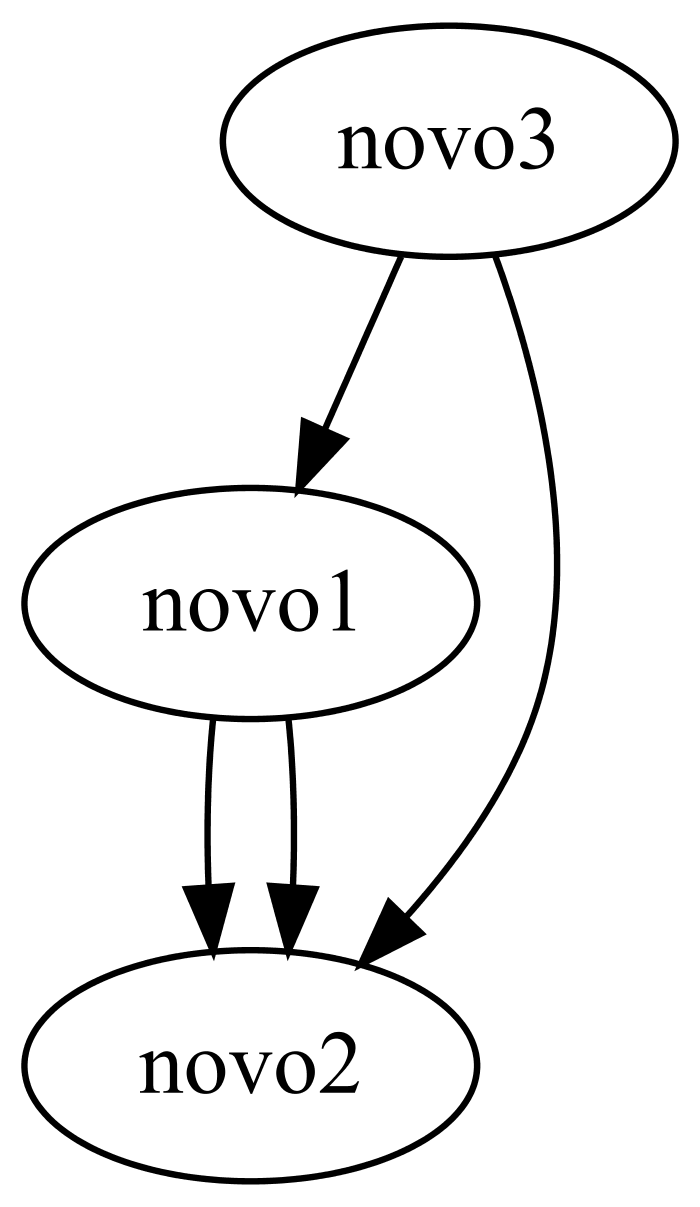
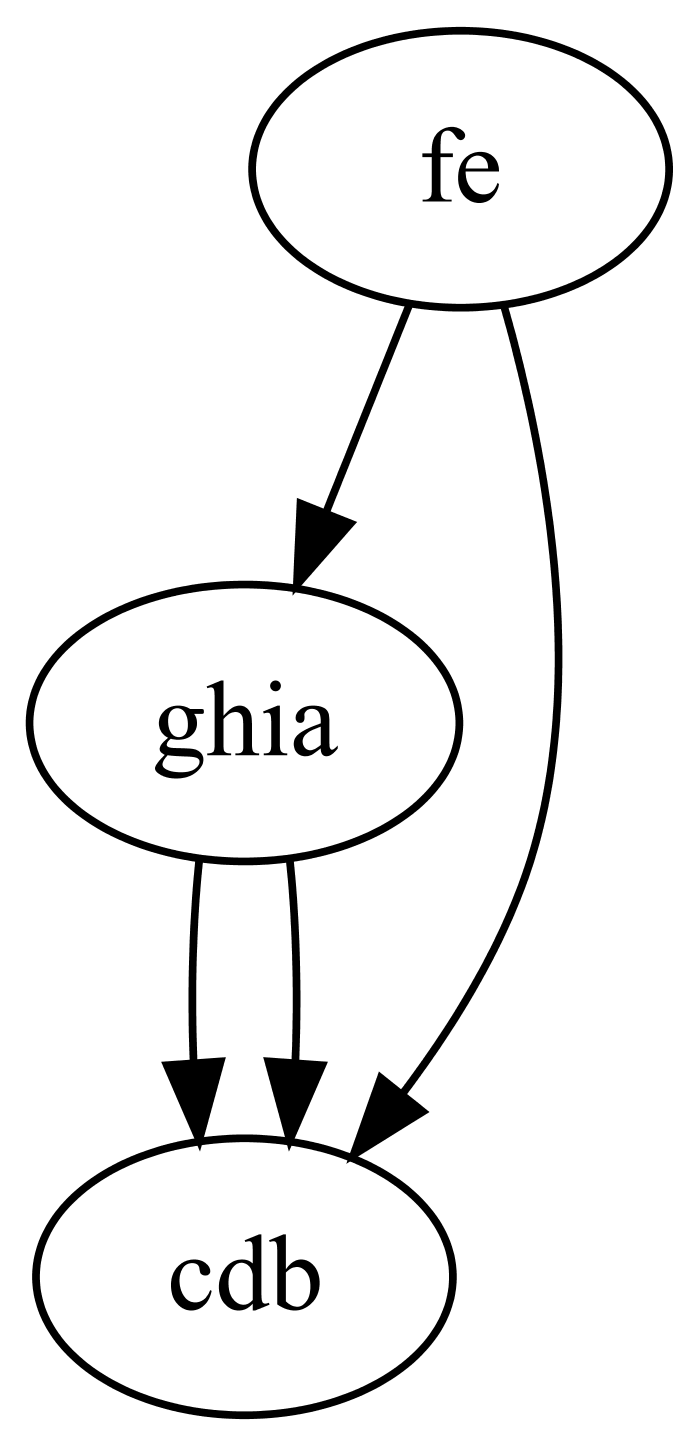
Malgrange (Semana 09)
Função recriaVertices agora tem controle   para remoção de arestas com um único vértice.
Opcional: Criar uma função para remover arestas duplicadas (mesmos vertices).
Malgrange finalizado.

diff --git a/src/main/java/br/com/davesmartins/grafo_api/TesteMenu.java b/src/main/java/br/com/davesmartins/grafo_api/TesteMenu.java
@@ -8,7 +8,7 @@ public class TesteMenu {
 
     public static void main(String[] args) throws IOException {
         Grafo grafo = new Grafo();
-        GrafoOrientado grafo_orientado = new GrafoOrientado();
+        GrafoOrientado grafoOrientado = new GrafoOrientado();
 
         Scanner leitor = new Scanner(System.in);
 
@@ -103,7 +103,7 @@ public class TesteMenu {
                                             System.out.println("Vertice: ");
                                             v1 = leitor.next();
                                             vert1 = new Vertice(v1);
-                                            grafo_orientado.addVertice(vert1);
+                                            grafoOrientado.addVertice(vert1);
                                             break;
                                         case 2:
                                             System.out.println("Vertice de origem: ");
@@ -113,7 +113,7 @@ public class TesteMenu {
                                             System.out.println("Vertice de destino: ");
                                             v2 = leitor.next();
                                             vert2 = new Vertice(v2);
-                                            grafo_orientado.inserirAresta(v1, v2);
+                                            grafoOrientado.inserirAresta(v1, v2);
                                             break;
                                         case 3:
                                             System.out.println("Vertice 1: ");
@@ -126,7 +126,7 @@ public class TesteMenu {
 
                                             System.out.println("Insira o valor da Aresta: ");
                                             valor = leitor.nextDouble();
-                                            grafo_orientado.inserirArestaValorada(v1, v2, valor);
+                                            grafoOrientado.inserirArestaValorada(v1, v2, valor);
                                             break;
                                     }
 
@@ -199,7 +199,7 @@ public class TesteMenu {
 
                 case 3:
                     int op3 = 0;
-                    while (op != 14) {
+                    while (op != 15) {
                         System.out.println("---------------Matriz---------------");
                         System.out.println("1 - Mostrar Ordem");
                         System.out.println("2 - Mostrar Grau");
@@ -210,11 +210,12 @@ public class TesteMenu {
                         System.out.println("7 - Grafo Completo?");
                         System.out.println("8 - Mostrar Fecho Transitivo Direto");
                         System.out.println("9 - Mostrar Fecho Transitivo Inverso");
-                        System.out.println("10 -Mostrar conexidade");
-                        System.out.println("11 -Gerar menor caminho (orientado)");
-                        System.out.println("12 -Gerar menor caminho (nao orientado)");
-                        System.out.println("13 -Gerar imagem da arvore (Kruskal)"); 
-                        System.out.println("14 - Sair");
+                        System.out.println("10 - Mostrar conexidade");
+                        System.out.println("11 - Gerar menor caminho (orientado)");
+                        System.out.println("12 - Gerar menor caminho (nao orientado)");
+                        System.out.println("13 - Gerar imagem da arvore (Kruskal)");
+                        System.out.println("14 - Gerar Grafo reduzido (malgrange)");
+                        System.out.println("15 - Sair");
                         op3 = leitor.nextInt();
 
                         switch (op3) {
@@ -233,7 +234,7 @@ public class TesteMenu {
                                 System.out.println(grafo.dotSimples());
                                 break;
                             case 5:
-                                System.out.println(grafo_orientado.dotOrientado());
+                                System.out.println(grafoOrientado.dotOrientado());
                                 break;
                             case 6:
                                 if (grafo.grafoRegular()) {
@@ -243,7 +244,7 @@ public class TesteMenu {
                                 }
                                 break;
                             case 7:
-                                if (grafo_orientado.Grafo_completo()) {
+                                if (grafoOrientado.Grafo_completo()) {
                                     System.out.println("Completo");
                                 } else {
                                     System.out.println("Nao Completo");
@@ -253,15 +254,15 @@ public class TesteMenu {
                                 System.out.println("Fecho Transitivo Direto(Informe o Vertice): ");
                                 v1 = leitor.next();
                                 Vertice vertice_ftd = new Vertice(v1);
-                                grafo_orientado.buscaTD(vertice_ftd);
+                                grafoOrientado.buscaTD(vertice_ftd);
                                 break;
                             case 9:
                                 System.out.println("Fecho Transitivo Inverso(Informe o Vertice): ");
                                 v1 = leitor.next();
-                                grafo_orientado.buscaTD(grafo_orientado.buscaVertice(v1));
+                                grafoOrientado.buscaTD(grafoOrientado.buscaVertice(v1));
                                 break;
                             case 10:
-                                if (grafo_orientado.grafoConexo()) {
+                                if (grafoOrientado.grafoConexo()) {
                                     System.out.println("Conexo");
                                 } else {
                                     System.out.println("Nao Conexo");
@@ -274,8 +275,8 @@ public class TesteMenu {
                                 System.out.println("Informe o vertice de destino");
                                 v2 = leitor.next();
 
-                                System.out.println(grafo_orientado.Dijikstra(grafo_orientado.buscaVertice(v1), grafo_orientado.buscaVertice(v2)));
-                                Graph.createStringDotToPng(grafo_orientado.Dijikstra(grafo_orientado.buscaVertice(v1), grafo_orientado.buscaVertice(v2)), "naoOrientadoDistancia.png");
+                                System.out.println(grafoOrientado.Dijikstra(grafoOrientado.buscaVertice(v1), grafoOrientado.buscaVertice(v2)));
+                                Graph.createStringDotToPng(grafoOrientado.Dijikstra(grafoOrientado.buscaVertice(v1), grafoOrientado.buscaVertice(v2)), "naoOrientadoDistancia.png");
                                 break;
 
                             case 12:
@@ -291,6 +292,11 @@ public class TesteMenu {
 
                             case 13:
                                 Graph.createStringDotToPng(grafo.imprimeArvore(), "Arvorekruskal.png");
+                                break;
+                                
+                            case 14:
+                                grafoOrientado.malgrange();
+                                Graph.createStringDotToPng(grafoOrientado.dotOrientado(), "grafoReduzido.png");
                                 break;
 
                         }

diff --git a/src/main/java/br/com/davesmartins/grafo_api/GrafoOrientado.java b/src/main/java/br/com/davesmartins/grafo_api/GrafoOrientado.java
@@ -38,6 +38,16 @@ public class GrafoOrientado extends Grafo {
         return aresta;
     }
 
+    public ArrayList<Aresta> buscaArestasVertice(Vertice v) { //busca as arestas ligadas ao vertice 2
+        ArrayList<Aresta> aresta = new ArrayList<Aresta>();
+        for (Aresta a : lista_aresta) {
+            if (a.getV1() == v || a.getV2() == v) {
+                aresta.add(a);
+            }
+        }
+        return aresta;
+    }
+
     public ArrayList<Vertice> transitivoDireto(Vertice v) { //
         controle_vertice.add(v);
         ArrayList<Vertice> vertice = new ArrayList<Vertice>();
@@ -51,14 +61,14 @@ public class GrafoOrientado extends Grafo {
         return vertice;
     }
 
-    public ArrayList<Vertice> transitivoIndireto(Vertice v) {
+    public ArrayList<Vertice> transitivoInverso(Vertice v) {
         controle_vertice.add(v);
         ArrayList<Vertice> vertice = new ArrayList<Vertice>();
         ArrayList<Aresta> aresta = buscaV2(v);
         for (Aresta a : aresta) {
             vertice.add(a.getV1());
             if (!(controle_vertice.contains(a.getV1()))) {
-                vertice.addAll(transitivoIndireto(a.getV1()));
+                vertice.addAll(transitivoInverso(a.getV1()));
             }
         }
         return vertice;
@@ -71,7 +81,7 @@ public class GrafoOrientado extends Grafo {
 
     public ArrayList<Vertice> buscaTI(Vertice v) { //busca os vertices que um vertice consegue receber
         controle_vertice.removeAll(controle_vertice);
-        return transitivoIndireto(v);
+        return transitivoInverso(v);
     }
 
     public ArrayList<Vertice> arestasDoVertice(Vertice v) {
@@ -170,46 +180,43 @@ public class GrafoOrientado extends Grafo {
     public void malgrange() throws IOException {
         ArrayList<Vertice> intersecao = new ArrayList<Vertice>();
         ArrayList<Vertice> copia = new ArrayList<Vertice>();
+        ArrayList<Vertice> remover = new ArrayList<Vertice>();
 
         copia.addAll(lista_vertice);
-        int contador = 0;
 
         for (Vertice v : copia) {
             if (!intersecao.isEmpty()) {
                 recriaVertices(intersecao);
                 intersecao.removeAll(intersecao);
             }
-            contador++;
+
             for (Vertice ftd : buscaTD(v)) {
                 for (Vertice fti : buscaTI(v)) {
                     if (fti.equals(ftd)) {
                         if (!intersecao.contains(fti)) {
                             intersecao.add(fti);
-                            System.out.println(fti.getNome());
                         }
                     }
                 }
             }
         }
-
-        System.out.println(intersecao.size());
-        
+//        removeArestaRepetida();
     }
-    int cont = 1;
 
     public ArrayList<Vertice> recriaVertices(ArrayList<Vertice> intersecao) throws IOException {
 
         ArrayList<Aresta> copia = new ArrayList<Aresta>();
         copia.addAll(lista_aresta);
 
-        Vertice vertice = new Vertice("novo" + cont);
+        String nome = "";
+        for (Vertice nomeia : intersecao) {
+            nome = nome + nomeia.getNome();
+        }
+        Vertice vertice = new Vertice(nome);
         addVertice(vertice);
-        System.out.println("cont = " + cont);
-        cont++;
 
         for (Vertice v : intersecao) {
             for (Aresta a : copia) {
-
                 if (a.getV1() == v) {
                     a.setV1(vertice);
                 }
@@ -219,11 +226,25 @@ public class GrafoOrientado extends Grafo {
                 if (a.getV1() == a.getV2()) {
                     removeAresta(a);
                 }
-
             }
             lista_vertice.remove(v);
-            System.out.println("remove" + lista_vertice.size());
         }
         return lista_vertice;
     }
+
+//    public void removeArestaRepetida() {
+//        ArrayList<Aresta> copia = new ArrayList<Aresta>();
+//        Aresta aresta;
+//        
+//        int cont = 0;
+//        
+//        for (Vertice v : lista_vertice) { //fe(ghia, cdb), ghia(cdb,cdb), cdb
+//        copia = buscaArestasVertice(v);
+//        for(Aresta a: copia){
+//        if(a.getV1() == v || a.getV2() == v){
+//            cont++;
+//        }
+//        }
+//        }
+//    }
 }
